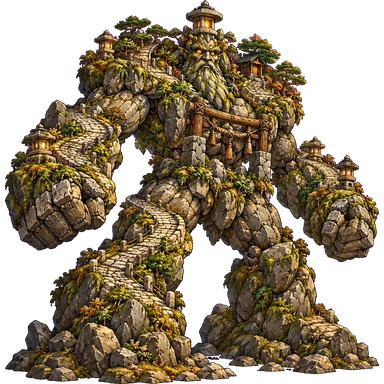
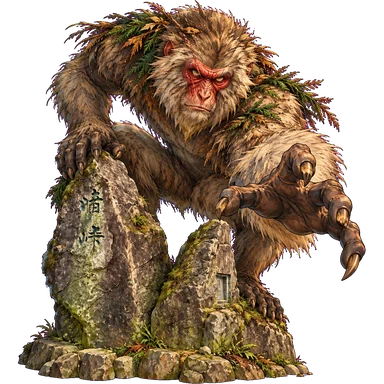
Osaka boss: swap 石畳の関守 for 暗峠の古猿 (new art)
Claude-Session: https://claude.ai/code/session_01N9UH7aPas3bYDXNeJrASUj

diff --git a/index.html b/index.html
@@ -634,7 +634,7 @@ const SPEC={
  '徳島':{course:'剣山スーパー林道',icon:'🗻',img:'tokushima-4',pool:['rough','lost','pass','slide','rockfall'],boss:'boss_tokushima',bonus:50000,list:'ダート・廃道・峠・土砂崩れの跡・落石・剣の尾根の主',kind:'林道コース',desc:'上勝町から那賀町へ続く、全長87.7kmの砂利道。終わりの見えない尾根道が、脚と気力を削っていく。'},
  '青森':{course:'白神ライン',icon:'🌳',img:'aomori-4',pool:['rough','pass','ford','tree','hill'],boss:'boss_aomori',bonus:50000,list:'ダート・峠・沢の渡渉・倒木・激坂・ブナの古老',kind:'林道コース',desc:'白神山地の山あいを抜ける、未舗装の砂利道。アップダウンが続き、森の奥で古い主が待っている。'},
  '兵庫':{course:'瀞川・氷ノ山林道',icon:'🦊',img:'hyogo-4',pool:['rough','lost','slide','tree','rockfall'],boss:'boss_hyogo',bonus:50000,list:'ダート・廃道・土砂崩れの跡・倒木・落石・霧野の大狐',kind:'林道コース',desc:'氷ノ山のふもとを走る、但馬の林道。落石や倒木が道をふさぎ、霧の向こうで大きな影が動く。'},
- '大阪':{course:'暗峠',icon:'🪨',img:'osaka-4',pool:['hill','pass','curves'],boss:'boss_osaka',bonus:50000,list:'激坂・峠・連続カーブ・石畳の関守',kind:'峠コース',desc:'生駒山を越えて奈良へ抜ける、古い街道の峠。石畳の残る坂が続き、峠の関所には主が立つ。'},
+ '大阪':{course:'暗峠',icon:'🪨',img:'osaka-4',pool:['hill','pass','curves'],boss:'boss_osaka',bonus:50000,list:'激坂・峠・連続カーブ・暗峠の古猿',kind:'峠コース',desc:'生駒山を越えて奈良へ抜ける、古い街道の峠。石畳の残る坂が続き、峠の石の上には古い猿が居座っている。'},
  '栃木':{course:'いろは坂',icon:'🐒',img:'tochigi-4',pool:['curves','hill','car'],boss:'boss_tochigi',bonus:50000,list:'連続カーブ・急坂・暴走車・山猿の頭目',kind:'坂道コース',desc:'日光から奥日光へ、いろは歌の文字を掲げた急カーブが続く坂。上りと下りに分かれた道の途中で、山の主が待ち構える。'},
  '宮城':{course:'蔵王エコーライン',icon:'🌨',img:'miyagi-4',pool:['wind','snow','pass'],boss:'boss_miyagi',bonus:50000,list:'強風・吹雪・長い登り・雪回廊の白狼',kind:'山岳コース',desc:'蔵王町から山形県境へ向かう、蔵王の山岳道路。冬は閉ざされ、春には雪の壁が立つ。その先の雪の回廊には、白い狼が潜んでいる。'}};
 const needV=p=>SPEC[p.name]?4:3;
@@ -760,7 +760,7 @@ const ENEMY={
  boss_tokushima:{name:'剣の尾根の主',face:'🗡',img:'img/enemy_boss_tokushima.webp',hp:80,atk:16,limit:7,stat:'rough',mp:8,hint:'林道コース最大の難所。悪路走破力が効く。気力も大きく削られる'},
  boss_aomori:{name:'ブナの古老',face:'🌳',img:'img/enemy_boss_aomori.webp',hp:80,atk:16,limit:7,stat:'climb',mp:8,hint:'林道コース最大の難所。登坂力が効く。気力も大きく削られる'},
  boss_hyogo:{name:'霧野の大狐',face:'🦊',img:'img/enemy_boss_hyogo.webp',hp:80,atk:16,limit:7,stat:'cruise',mp:8,hint:'林道コース最大の難所。巡航力が効く。気力も大きく削られる'},
- boss_osaka:{name:'石畳の関守',face:'🪨',img:'img/enemy_boss_osaka.webp',hp:80,atk:16,limit:7,stat:'climb',mp:8,hint:'峠コース最大の難所。登坂力が効く。気力も大きく削られる'},
+ boss_osaka:{name:'暗峠の古猿',face:'🐒',img:'img/enemy_boss_osaka.webp',hp:80,atk:16,limit:7,stat:'climb',mp:8,hint:'峠コース最大の難所。登坂力が効く。気力も大きく削られる'},
  boss_tochigi:{name:'山猿の頭目',face:'🐒',img:'img/enemy_boss_tochigi.webp',hp:80,atk:16,limit:7,stat:'cruise',mp:8,hint:'坂道コース最大の難所。巡航力が効く。気力も大きく削られる'},
  boss_miyagi:{name:'雪回廊の白狼',face:'🐺',img:'img/enemy_boss_miyagi.webp',hp:80,atk:16,limit:7,stat:'wx',mp:8,hint:'山岳コース最大の難所。耐候力が効く。気力も大きく削られる'},
  camper1:{name:'迷惑キャンパー（酔っ払い）',face:'🍺',img:'img/enemy_camper1.webp',hp:70,atk:15,limit:6,stat:'wx',mp:6,camper:1,hint:'耐候力が効く。大声に気力を削られる'},
@@ -1264,7 +1264,7 @@ const isRival=()=>B.kind==='rival';
 function kmOf(v){const L=isRival()?400:trip.sec;return Math.max(0,v)/B.max*L;}
 function fmtD(v){const x=kmOf(v);return isRival()?Math.round(x)+'m':(x>=10?Math.round(x):x.toFixed(1))+'km';}
 const LEFT=()=>isRival()?'撮影スポットまで':'ゴールまで';
-const HIT={hill:'坂がきつい',animal:'いのししに追いつかれ、突進された',pass:'長い登りに脚を削られた',snow:'吹雪に視界を奪われた',heat:'炎天下で頭がくらくらする',rough:'荒れたダートにハンドルを取られた',lost:'藪に埋もれた道を見失いかけた',deer:'鹿が飛び出して急ブレーキ。逃げ遅れた',bear:'ツキノワグマに迫られた！全力で逃げる',brownbear:'ヒグマに迫られた！必死で逃げる',habu:'ハブに咬まれかけた！慌てて逃げる',car:'暴走車に幅寄せされた',bike:'暴走バイクが横をかすめた',wind:'向かい風に押し戻された',rain:'冷たい雨に体温を奪われた',typhoon:'暴風雨にあおられた',rockfall:'落ちてきた岩にかすめられた',slide:'ぬかるんだ土砂にタイヤを取られた',ford:'冷たい水に足を取られた',tree:'倒木の枝に引っかかった',collapse:'崩れた路肩に足を取られた',gas:'喉が焼けるガスを吸い込んだ',volcstorm:'急な風雨と雷に打たれた',curves:'急なコーナーで体勢を崩した',gate:'閉まりかけたゲートに焦らされた',boss_fukushima:'噴き出したガスに視界を奪われた',boss_tokyo:'夕闇に紛れた遮断棒に行く手を阻まれた',boss_gifu:'氷の息吹に体温を奪われた',boss_akita:'凍てつく風に翼で押し戻された',boss_tokushima:'砕けた岩に行く手を阻まれた',boss_aomori:'大きな根と枝に押し返された',boss_hyogo:'霧にまかれて道を見失いかけた',boss_osaka:'石畳に足を取られ、押し返された',boss_tochigi:'飛びかかる山猿に荷を奪われかけた',boss_miyagi:'雪煙の中から白い狼に飛びかかられた',camper1:'酒臭い大声に絡まれた',camper2:'夜通しの馬鹿騒ぎで眠れない',camper3:'犬の吠え声が鳴りやまない'};
+const HIT={hill:'坂がきつい',animal:'いのししに追いつかれ、突進された',pass:'長い登りに脚を削られた',snow:'吹雪に視界を奪われた',heat:'炎天下で頭がくらくらする',rough:'荒れたダートにハンドルを取られた',lost:'藪に埋もれた道を見失いかけた',deer:'鹿が飛び出して急ブレーキ。逃げ遅れた',bear:'ツキノワグマに迫られた！全力で逃げる',brownbear:'ヒグマに迫られた！必死で逃げる',habu:'ハブに咬まれかけた！慌てて逃げる',car:'暴走車に幅寄せされた',bike:'暴走バイクが横をかすめた',wind:'向かい風に押し戻された',rain:'冷たい雨に体温を奪われた',typhoon:'暴風雨にあおられた',rockfall:'落ちてきた岩にかすめられた',slide:'ぬかるんだ土砂にタイヤを取られた',ford:'冷たい水に足を取られた',tree:'倒木の枝に引っかかった',collapse:'崩れた路肩に足を取られた',gas:'喉が焼けるガスを吸い込んだ',volcstorm:'急な風雨と雷に打たれた',curves:'急なコーナーで体勢を崩した',gate:'閉まりかけたゲートに焦らされた',boss_fukushima:'噴き出したガスに視界を奪われた',boss_tokyo:'夕闇に紛れた遮断棒に行く手を阻まれた',boss_gifu:'氷の息吹に体温を奪われた',boss_akita:'凍てつく風に翼で押し戻された',boss_tokushima:'砕けた岩に行く手を阻まれた',boss_aomori:'大きな根と枝に押し返された',boss_hyogo:'霧にまかれて道を見失いかけた',boss_osaka:'石の陰から古猿に飛びかかられ、押し返された',boss_tochigi:'飛びかかる山猿に荷を奪われかけた',boss_miyagi:'雪煙の中から白い狼に飛びかかられた',camper1:'酒臭い大声に絡まれた',camper2:'夜通しの馬鹿騒ぎで眠れない',camper3:'犬の吠え声が鳴りやまない'};
 function tacOK(){const k=B.kind;return k==='hill'?S.hp>5:k==='animal'?S.mp>=5:k==='pass'||k==='heat'||k==='rough'||k==='lost'||k==='deer'||k==='car'||k==='bike'?S.mp>=3:k==='bear'||k==='brownbear'?S.mp>=8:k==='habu'?S.mp>=6:k==='rival'?S.mp>=8:k==='rain'||k==='snow'?!!(S.gear.tarp||S.gear.shelter)&&S.mp>=3:k==='typhoon'?!!S.gear.shelter&&S.mp>=4:k==='wind'?S.mp>=3:k==='rockfall'||k==='ford'||k==='gas'||k==='volcstorm'||k==='curves'||k==='gate'?S.mp>=3:k==='boss_fukushima'||k==='boss_tokyo'||k==='boss_gifu'||k==='boss_akita'||k==='boss_tokushima'||k==='boss_aomori'||k==='boss_hyogo'||k==='boss_osaka'||k==='boss_tochigi'||k==='boss_miyagi'?S.mp>=4:k==='slide'||k==='tree'?S.mp>=3&&S.hp>5:k==='collapse'?S.mp>=4:k==='camper1'?S.mp>=5:k==='camper2'||k==='camper3'?S.mp>=3:true;}
 function playerPower(){const st=bikeStats();if(B.kind==='rival')return 8+FL()/8+st.photo/2;return st[B.e.stat]*4;}
 function renderBattle(){const pr=Math.min(100,Math.max(0,(1-B.hp/B.max)*100));$('bt-hp').style.width=pr+'%';$('bt-bike').style.left=pr+'%';$('bt-bike').src=isRival()?'img/part_cam.webp':'img/icon_bike_'+S.bike+'.webp';$('bt-goal').src=isRival()?'img/part_tripod.webp':'img/icon_g_sh2.webp';
